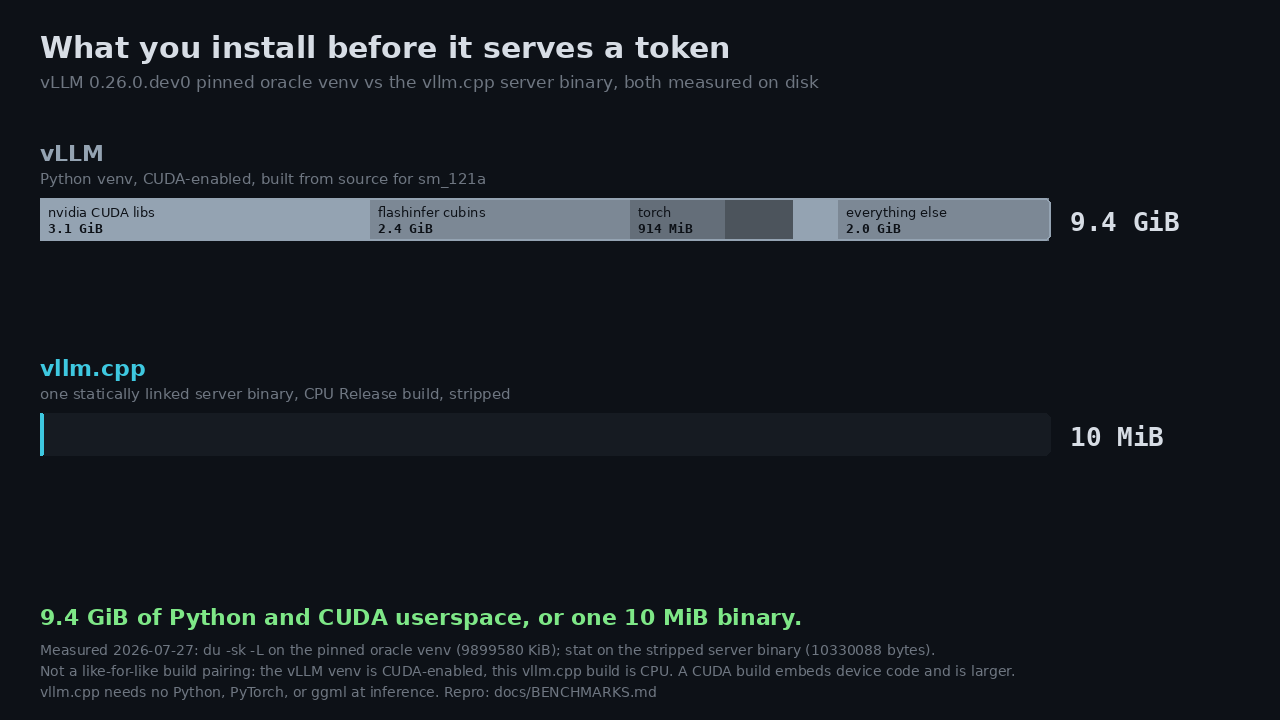
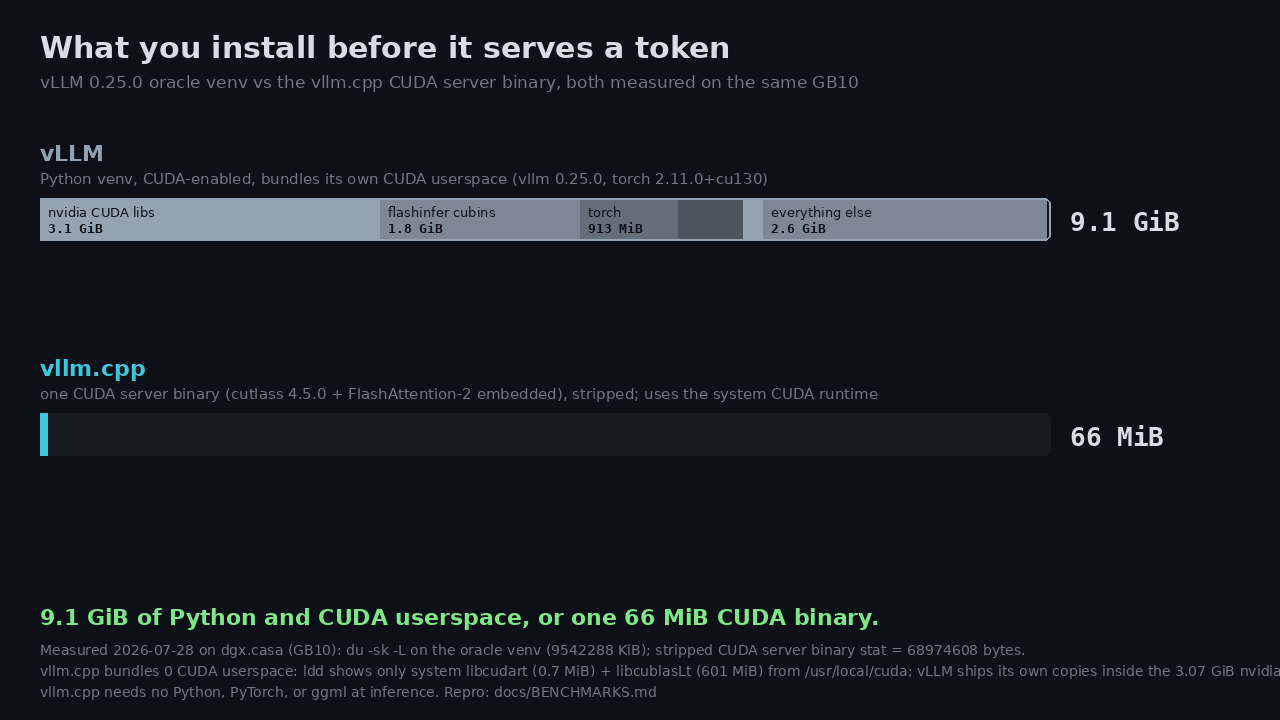
fix: restore the demo footprint files clobbered by 89c46aeb
89c46aeb was assembled with `git reset --soft origin/main` from a worktree based
on an older commit, which staged the difference against three files that had
landed meanwhile in e28d66f4 and silently reverted them:
benchmarks/media/footprint.png, benchmarks/demo/footprint_gb10.json and one line
of .agents/parity-ledger.md.

All three are restored byte-for-byte to their e28d66f4 contents, verified by
comparing blob hashes rather than by eye. The Metal change in 89c46aeb is
untouched.

The mistake was mechanical: `reset --soft` against a moved base does not merge,
it replaces, and a squash assembled that way will revert anything that landed in
between unless the base is refreshed first. Fetch and rebase before squashing, or
check `git show --stat` for files the change has no business touching.

Assisted-by: Claude Code:claude-opus-5 [ClaudeCode]

diff --git a/.agents/parity-ledger.md b/.agents/parity-ledger.md
@@ -14,6 +14,7 @@ Columns:
 
 | Date / commit | What it does | Upstream equivalent | Parity status |
 |---|---|---|---|
+| 2026-07-28 (**footprint.png fixed to measure the CUDA server binary apples-to-apple**; `CLAIM-DEMO-FOOTPRINT-CUDA`; isolated worktree `.claude/worktrees/agent-aa0ef12fb6326e380` off local `main` `0e2c667a`; CUDA `server`+`vllm_shared` built + measured on dgx.casa GB10 sm_121a `~/vllmcpp-footprint/build-cuda` via `git archive` (NOT rsync); no GPU run (static footprint only); render on dev box (PIL); DOCS/DEMO-ONLY, zero src/kernel/CMake edits; NOT pushed; closing commit: this checkpoint) | **What it does.** The demo footprint visual (`benchmarks/media/footprint.png`, rendered by `benchmarks/demo/footprint.py` from `benchmarks/demo/footprint_gb10.json`) previously drew the vllm.cpp side as a **CPU** build (9.85 MiB `server`), making the "what you install to serve on GB10" contrast apples-to-oranges. Rebuilt the **CUDA fast-path** `server` on dgx.casa (cutlass 4.5.0 + vendored FA-2 device code; configure banners `cutlass-nvfp4/cutlass-fp8/FA2 ENABLED [121a]`) and re-measured BOTH sides fresh on the same box. New spec + doc numbers: vllm.cpp install = one stripped CUDA `server` binary **68,974,608 B = 65.78 MiB** (statically links `libvllm.a`; `libvllm.so` 65.66 MiB is the alternative library form, not additive); `ldd` shows the ONLY non-system deps are system `libcudart.so.13` (0.67 MiB) + `libcublasLt.so.13` (600.76 MiB) from `/usr/local/cuda-13.0` (on any GB10), so vllm.cpp **bundles 0 CUDA userspace** vs vLLM's ~3.07 GiB bundled `nvidia-*` wheels. vLLM oracle venv re-measured `du -sk -L ~/venvs/vllm-oracle` = 9,318.6 MiB (9.10 GiB; resolves to `vllm-oracle-v0.25.0-stage`, vllm 0.25.0 / torch 2.11.0+cu130 — 0.26 pin currently rolled back). Every JSON value carries a `_source`; `footprint.png` re-rendered (1280×720). | No vLLM behavior touched — demo/docs only. The measured venv is the pinned parity oracle (vLLM 0.25.0). Build invocation mirrors the project's standard CUDA build (`-DVLLM_CPP_CUDA=ON -DVLLM_CPP_SERVER=ON -DCMAKE_BUILD_TYPE=Release -DVLLM_CPP_CUTLASS_DIR=$HOME/cutlass-4.5.0`). | **NOT APPLICABLE — demo/docs measurement; no token, kernel, or number in the engine moved** (`benchmark_binding=false`). Honest story change recorded: the old CPU figure (9.85 MiB) understated the install; the true CUDA binary is 65.8 MiB, so the gap is **9.10 GiB vs 65.8 MiB ≈ 142×** (≈14× even if system `libcublasLt` is charged to vllm.cpp) — smaller than the CPU-vs-CUDA framing implied but a real, like-for-like, honestly-larger gap; the system CUDA bytes are NAMED in the card footnote, not dropped. Every `_source` command re-run reproduces its number; `footprint.png` rendered without error. README alt-text (line 29, still "9.4 GiB vs 10 MiB") left untouched — concurrent session owns README. Not pushed; FULL SHA reported. |
 | 2026-07-27 (**Ampere major-8 CUDA fast-path bring-up SPIKE (derive-and-ship)**; `CLAIM-CUDA-AMPERE-SCOPE`; isolated worktree `.claude/worktrees/agent-adb843dde95033953` off local `main` `11e0ba36` (branch `worktree-agent-adb843dde95033953`); SPIKE ONLY — read-only on production code, no build, no GPU, no download; pin `555967922`/vLLM 0.26.0.dev0; NOT pushed; closing commit: this checkpoint) | **What it does.** Scopes (does NOT implement) porting the Ampere (`sm_80/86/87/89`) FAST-PATH kernel bodies vLLM builds for major-8 into the landed arch-additivity seams, as a DERIVE-AND-SHIP campaign (port 1:1 → build-verify compile+`cuobjdump` SASS → ship LABELED, a board only upgrades the LABEL). New spec `.agents/specs/cuda-arch-ampere-fastpath.md` inventories, with vLLM `file:line`: **FA2** (vendored `_sm80.cu` bodies already present `__CUDA_ARCH__>=800` → a one-cell FEATURE-TABLE edit `fa2`→`8.0,8.6,8.7,8.9`; build gate `vllm_flash_attn.cmake:1-46`); **Marlin** int4 W4A16 GPTQ/AWQ (`MARLIN_ARCHS "8.0+PTX;12.0a;12.1a"` `CMakeLists.txt:570-572`) + fp8-input `sm_89` (`MARLIN_FP8_ARCHS "8.9;..."` `:585-589`, `sm89_kernel_*.cu`) — infra vendored, int4/fp8 instantiations NOT built (new bodies); **AllSpark** W8A16 (`ALLSPARK_ARCHS "8.0;8.6;8.7;8.9"` `:736-745`) — new body; **scaled-mm C2x** int8 W8A8 + `sm_89` fp8 (`SCALED_MM_2X_ARCHS "7.5;8.0;8.7;8.9+PTX"` `:857-867`, `scaled_mm_c2x.cu:862`) — new body. Adds a three-state SIGNAL matrix (RUNTIME-VERIFIED / DERIVED+BUILD-VERIFIED / NOT-YET-BUILDABLE) and the concrete AGX Orin (`sm_87`) bring-up W-plan (host handle MUST be provided; portable+GGUF token-exact FIRST non-GB10 runtime proof → FA2 → Marlin int4 → AllSpark → C2x int8 → benchmark vs llama.cpp+vLLM). Rows `BACKEND-CUDA-SM080/086/087/089` + `BACKEND-CUDA-COMP-ALLSPARK` + `BACKEND-CUDA-COMP-SCALEDMM-C2X` → `SPIKE`; `BACKEND-CUDA-COMP-MARLIN`/`-FA` kept `PARTIAL` (real `sm_121a` evidence not regressed), Ampere leg cross-referenced. | vLLM `555967922`: `CMakeLists.txt:570-592` (Marlin), `:736-745` (AllSpark), `:857-867` (scaled-mm C2x), `cmake/external_projects/vllm_flash_attn.cmake:1-46` (FA2 arches); FA2 kernels @ `2c839c33` (`flash_fwd_split_hdim*_bf16*_sm80.cu`); selection `vllm/attention/utils/fa_utils.py:132-250`; `tests/kernels/quantization/{test_marlin_gemm,test_allspark_gemm,test_cutlass_scaled_mm,test_scaled_mm_kernel_selection}.py`, `tests/kernels/attention/{test_flash_attn,test_attention_selector}.py`. | **NOT APPLICABLE — scoping spike; no token, kernel, or number moved** (`benchmark_binding=false`). Deliverable is the committed spec + record moves. Record checkers `check-agent-record.py`, `check-doc-checkpoint.py`, `check-device-leakage.py` RC=0 after commit. The correctness argument for the non-Orin sub-targets is bounded and explicit: faithful 1:1 port (cited `file:line`) + compile + SASS-emission, HONESTLY labeled untested (a green link is not execution evidence). Orin is the one target reaching RUNTIME-VERIFIED. Not pushed. |
 | 2026-07-27 (**FIRST NON-GB10 CUDA RUNTIME PROOF — `BACKEND-CUDA-SM110` portable path → RUNTIME-VERIFIED on real NVIDIA Jetson Thor `sm_110` silicon**; `CLAIM-CUDA-SM110-RUNTIME`; isolated worktree `.claude/worktrees/agent-a47bcf2794041ed3b` off `main` `0f07fe34`; built + RAN on Thor `ssh 192.168.68.23` `~/vllmcpp-thor` (`git archive`, NOT rsync); GPU under `flock $HOME/gpu.lock` with `local-ai-worker` STOPPED then RESTORED; RECORDS-ONLY, ZERO src/CMake/kernel edits; NOT pushed; closing commit: this checkpoint) | **What it does.** Flips the `sm_110` (Jetson Thor, Blackwell major 11) portable bf16 path from BUILD-supported to RUNTIME-VERIFIED — the first time any vllm.cpp CUDA path executes on non-GB10 silicon. On-box `nvidia-smi --query-gpu=compute_cap` = **11.0** CONFIRMS the inferred sm_110 (aarch64, JetPack R38, driver 580.00, nvcc `/usr/local/cuda-13.0` V13.0.48; **cutlass ABSENT and not needed** — every fast-path FEATURE-TABLE cell resolves EMPTY for sm_110, so the CMake cutlass block is skipped). Native build `-DVLLM_CPP_CUDA_ARCHITECTURES=110 -DVLLM_CPP_CUDA=ON -DVLLM_CPP_TRITON=OFF`, Release: all five features `DISABLED for [110]`, compiles/links **0 warnings** under `-Werror` (CUDA `--generate-code=arch=compute_110,code=[compute_110,sm_110]` + `-Werror=all-warnings`; CXX `-Wall -Wextra -Werror`), `cuobjdump -lelf libvllm.a` = **16 TUs of real sm_110 SASS and nothing else** (22 fast-path TUs absent, the documented per-major-11 shape). RECORDS-ONLY: no source/CMake/kernel/model/runner/sampler/test edit — the sm_110 build config and bodies are exactly the committed W10 fan-out. | The portable C++/CUDA `vt::` kernel bodies (bf16 paged attention/GEMM/RMSNorm/RoPE/SiLU/sample) compiled for `compute_110`; `cmake/CudaArchFeatures.cmake` per-arch resolution (1:1 of vLLM `cuda_archs_loose_intersection`); the `>=13` nvcc target branch that lists sm_110 (`${VLLM_SOURCE}/CMakeLists.txt:105-118`). Gate golden = the committed dgx-captured vLLM 0.25.0 per-prompt greedy for unsloth/Llama-3.2-1B (`tests/parity/goldens/llama_greedy_1b/greedy_ids.npy`), device-independent. | **RUNTIME-VERIFIED (portable bf16 path), token-exact vs the vLLM oracle golden.** `test_llama_paged_engine` (unsloth/Llama-3.2-1B bf16 safetensors, dgx→Thor) drove the full paged LLMEngine on sm_110: **STRICT token-exact 12/16 prompts = 192/192 tokens** vs the committed vLLM oracle greedy golden (every prompt where vLLM's greedy is DETERMINISTIC), **15/16 bit-identical to the GB10 sm_121a anchor** (`our_ids.npy`); the remaining 4/16 are the ratified bf16 near-tie prompts where GB10 itself diverges from vLLM greedy (committed teacher-forced gap = 0.000 nats, exact ties), 3/4 of them bit-identical to the GB10 anchor. PASS under the [[near-tie-distributional-gate]] (strict where vLLM is deterministic 12/12; within vLLM's near-tie band where it is not 4/4). **Honest scope + caveats:** RUNTIME-VERIFIED covers ONLY the portable bf16 path that RAN — the fp8/fp4/CUTLASS/Marlin/FA2 fast paths on sm_110 stay DERIVED/NOT-YET (cutlass-backed kernel campaign; cutlass isn't installed on Thor), and the other six W10 fan-out boards stay build-supported only (no board here). The committed gate's hard anchor-REQUIRE (a GB10 bit-identity assumption predating any second board) aborts at prompt 0 token 12 on the cross-arch near-tie tail branch; the forward is correct (12/12 strict on deterministic prompts is not chance). A FRESH oracle teacher-force on Thor's own prefix could NOT be run this session — the dgx oracle is degraded (0.26 `vllm-oracle-next` editable install dangling after its source tree `~/work/vllm-src-5559679` was pruned; `vllm-oracle-v0.25.0-stage` crashes in EngineCore KV/model init) — so p0's near-tie verdict rests on the committed gap-0 golden + the 3/4 GB10-identical near-tie prompts. No speed number owed (correctness milestone); llama.cpp A/B not run. `benchmark_binding=false`. `local-ai-worker` on Thor RESTORED (Up, restart=always). Not pushed; FULL SHA reported. |
 | 2026-07-27 (**ROAD-V1-C8 `/metrics` + utility endpoints**; `CLAIM-ROADMAP-C8`, rows `SERVE-METRICS` + `SERVE-UTILITY-ENDPOINTS`; worktree `.claude/worktrees/agent-aacc5633789269baf`, base `origin/main` `05a2e0d0`, NOT pushed) | **SERVE-METRICS:** a self-contained Prometheus registry (`PromRegistry`: Counter/Gauge/Histogram/Info families with multi-label series + text-format-0.0.4 exposition, `include/vllm/v1/metrics/prometheus.h` + `.cpp`) + the ALWAYS-ON vLLM metric catalog (`PrometheusStatLogger`, `include/vllm/v1/metrics/loggers.h` + `.cpp`): every metric NAME/help/type/bucket + the `{model_name, engine}` label schema registered 1:1, `Build1_2_5Buckets`, `Record(SchedulerStats, IterationStats)`, `SetCacheConfigInfo`; `SchedulerStats`/`IterationStats`/`FinishedRequestStats` added to `stats.h`. Wired to `GET /metrics` (opt-in `set_metrics_logger` + conditional route). **SERVE-UTILITY-ENDPOINTS:** `handle_tokenize`/`handle_detokenize` (prompt/tokens forms over the existing tokenizer), `handle_ping` (mirrors `/health`), `handle_server_info` (`{vllm_config,vllm_env,system_env}`), `handle_reset_prefix_cache` (`{"success":bool}` via injected callback) on the ApiServer, all additive/opt-in. | `vllm/entrypoints/serve/instrumentator/metrics.py:52-82`; `vllm/v1/metrics/loggers.py:480-1060,1100-1257,1284-1305` (metric catalog + record + buckets); `vllm/v1/metrics/stats.py:186-259`; the `prometheus_client` text format 0.0.4 (`_total`/`_bucket`/`_sum`/`_count`/Info); `vllm/entrypoints/serve/tokenize/{api_router,protocol,serving}.py`; `sagemaker/api_router.py:47`; `dev/server_info/api_router.py:43`; `dev/cache/api_router.py:20`. No vLLM C ABI — the registry/exposition reimplements prometheus_client's bytes (no Python at runtime). | **PARITY gated on CPU (RED-first).** The gate is the vLLM scrape spec `tests/entrypoints/serve/instrumentator/test_metrics.py::EXPECTED_METRICS_V1` (a `metric in response.text` substring assertion) re-expressed as `test_prometheus_metrics` 4/4 (81 assertions): every EXPECTED_METRICS_V1 name present, `{model_name,engine}` label schema, TYPE lines, TTFT/1-2-5 bucket schedules, `build_1_2_5_buckets` docstring example, `record()` value folding, cumulative-bucket monotonicity — dropping any family fails. `test_openai_api_server` 26/26 (297 assertions) incl. 4 new utility cases (tokenize round-trip+schema, detokenize, /metrics via server, ping+server_info, reset). **INERTNESS:** opt-in — a server without the backings registers no new routes; the 22 pre-existing api_server cases stay green; `git diff --stat` on tracked files = api_server.{h,cpp} additive + stats.h additive + CMake 2 lines + tests. CPU `-Werror` clean (full `vllm` lib). **NOT APPLICABLE for throughput** (`benchmark_binding=false`, serving surface). RESIDUAL: live-engine per-step stat wiring + config-gated families + `TOOLS-STREAMING-PARSER`/`SERVE-RESPONSE-METRICS`. Not pushed. |
